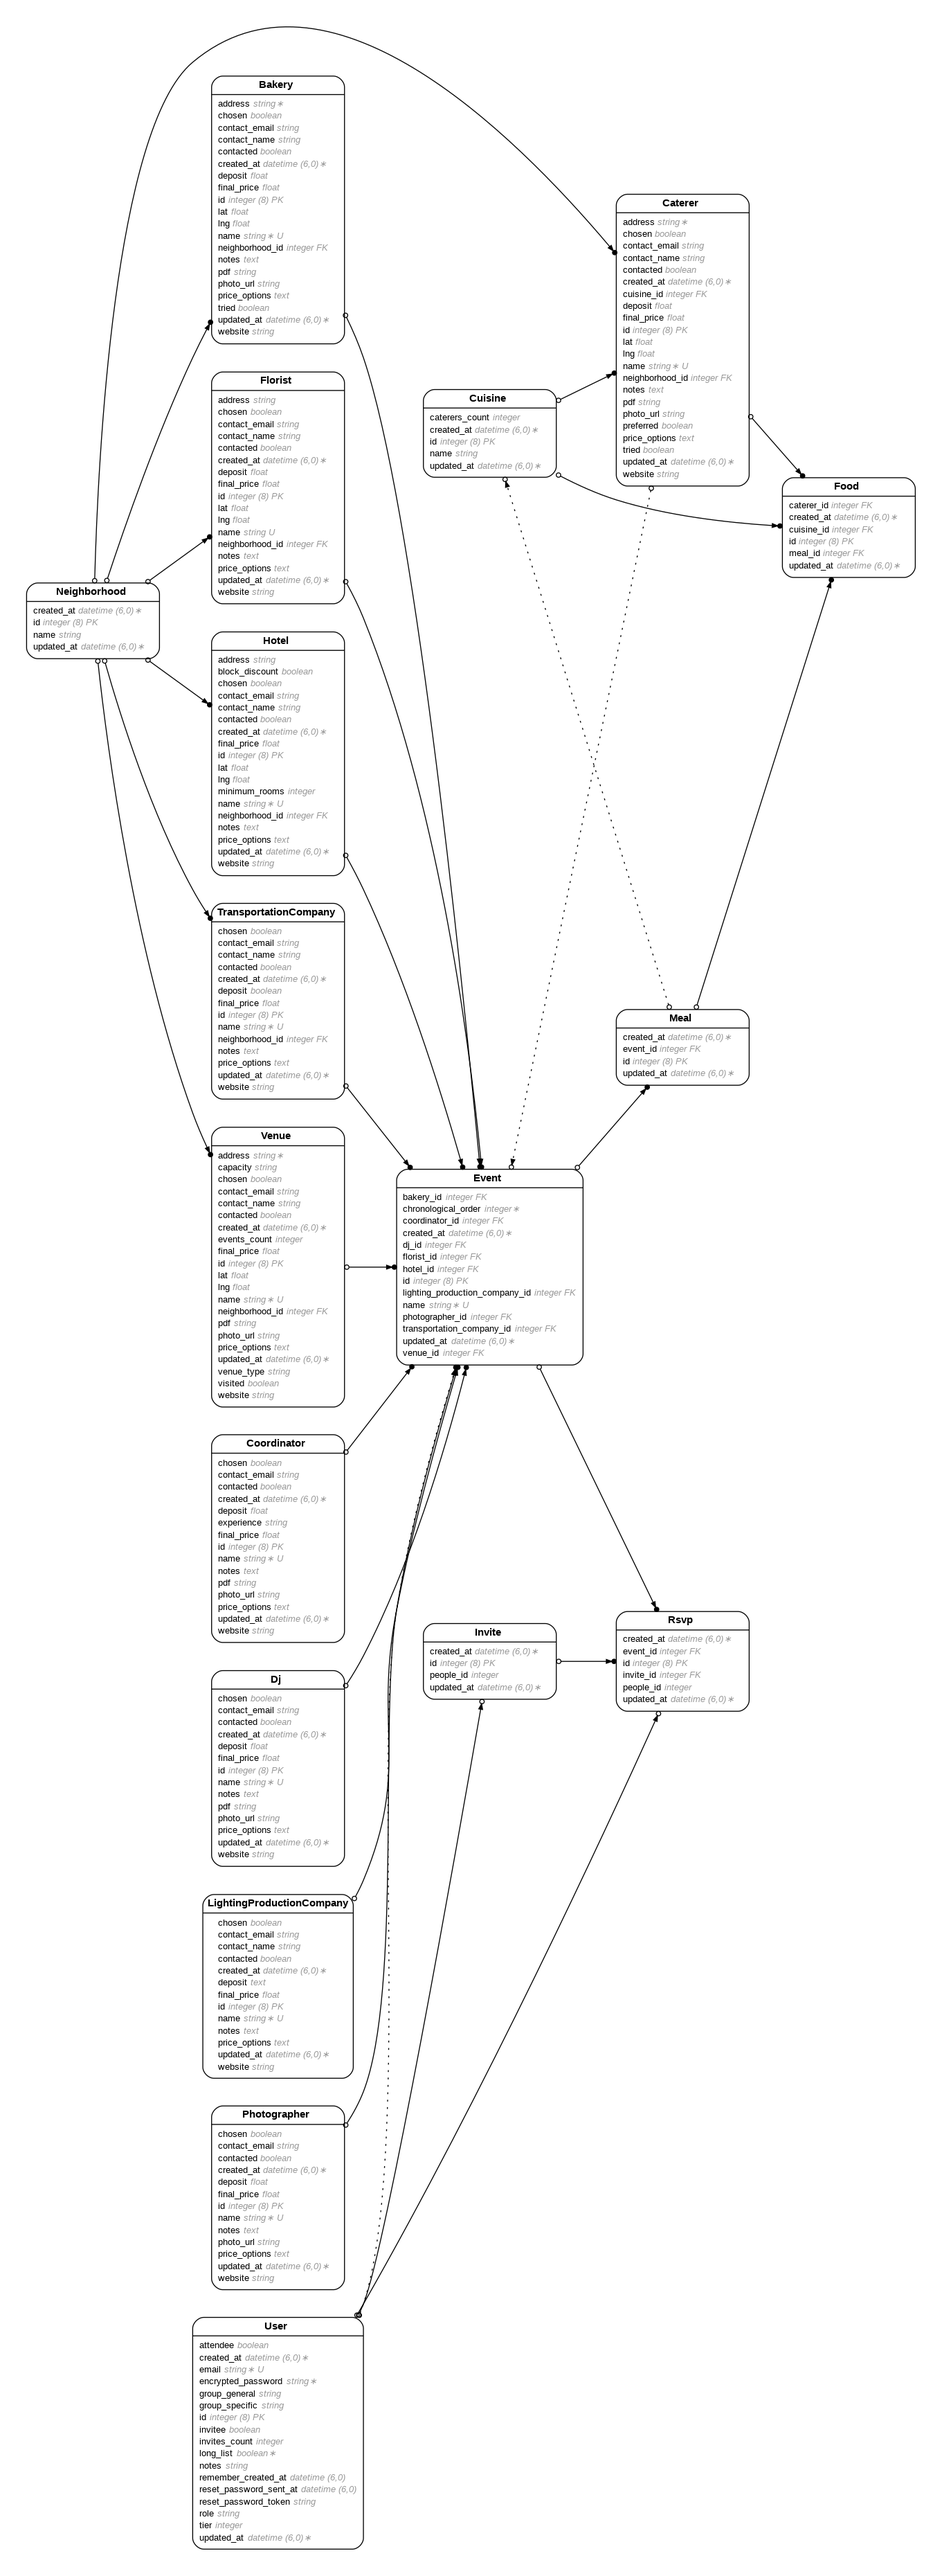
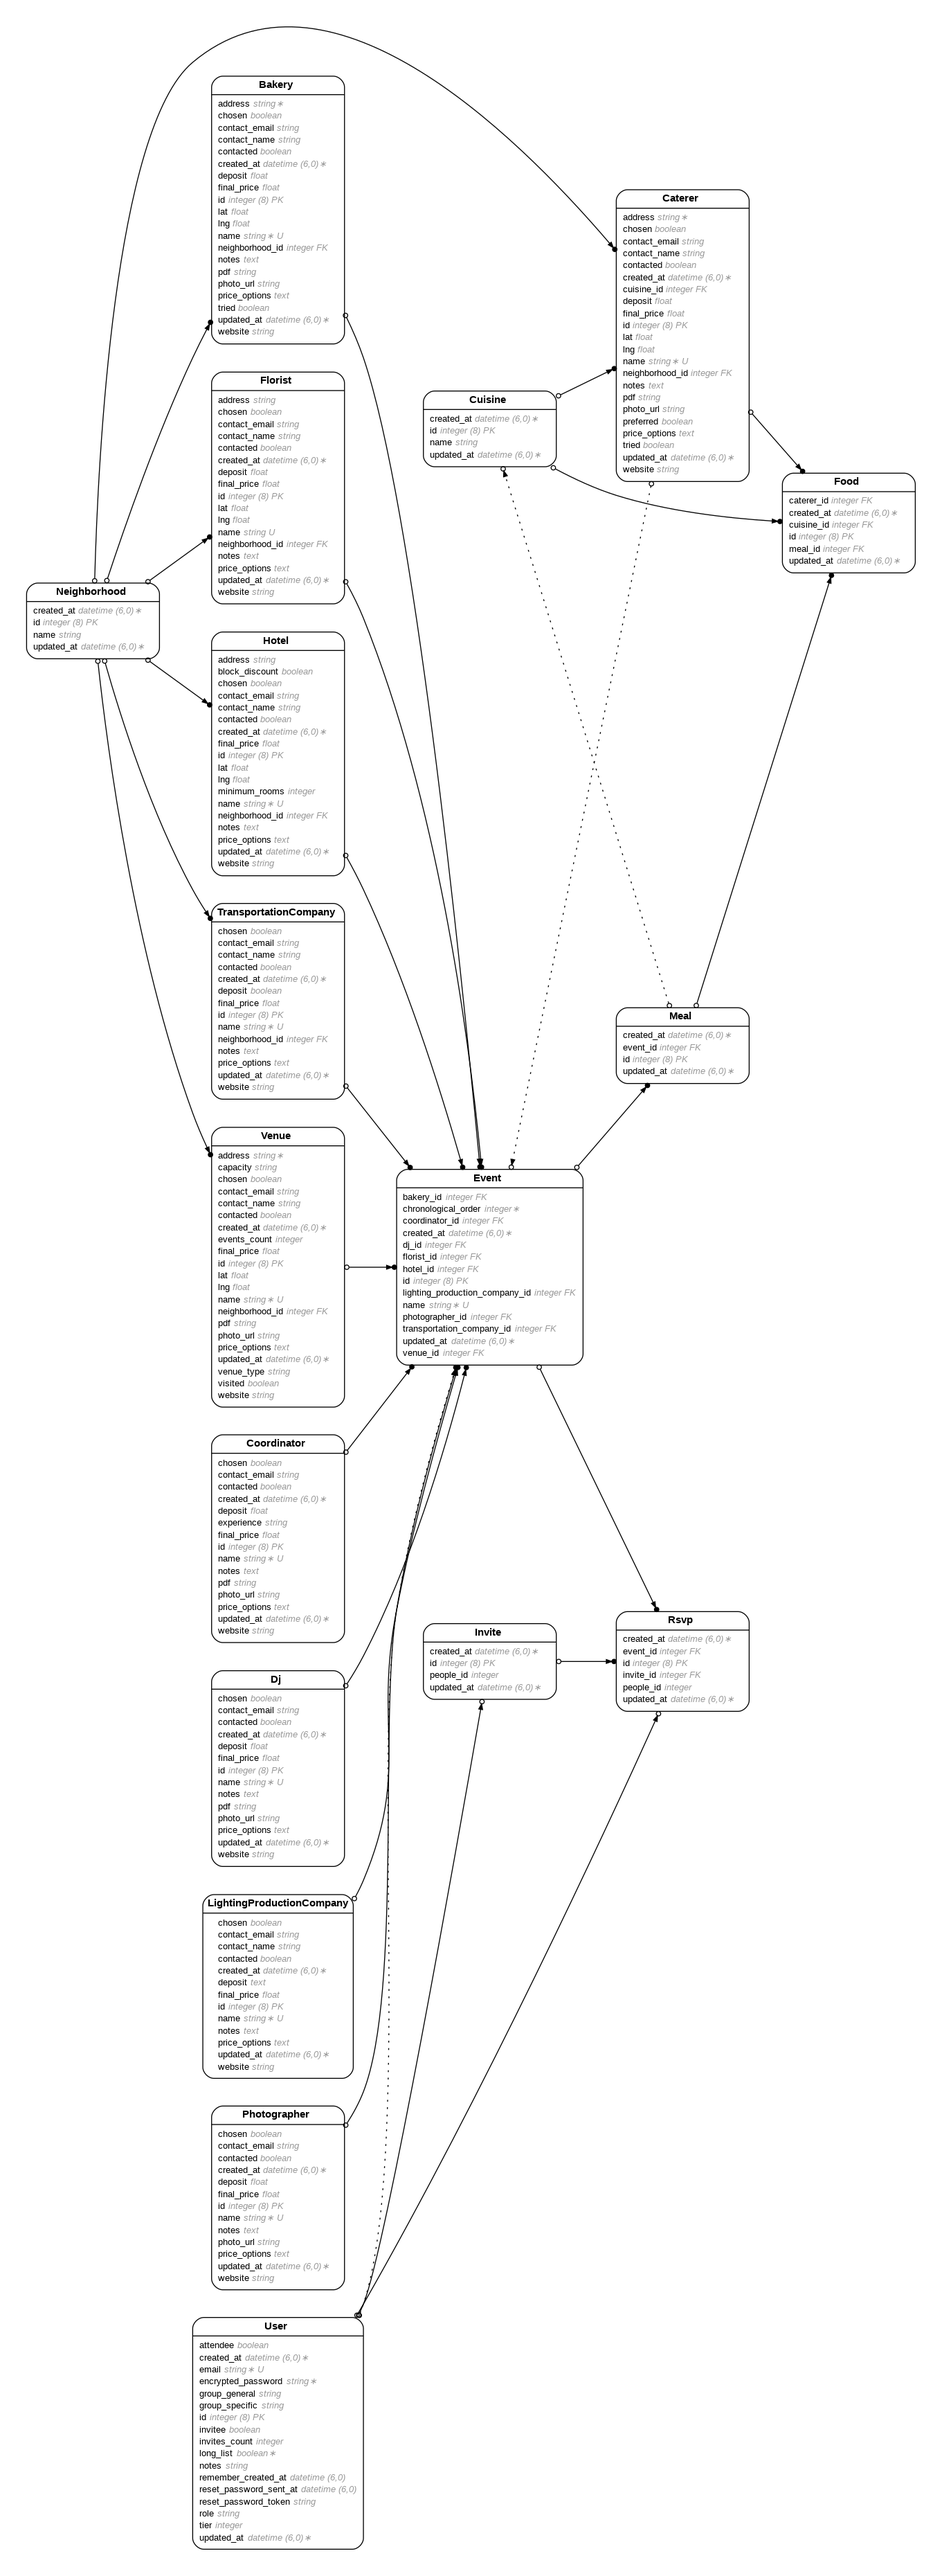
Fixing address in caterers, updating Meals index, removing caterers_count from Cuisine

diff --git a/app/controllers/caterers_controller.rb b/app/controllers/caterers_controller.rb
@@ -29,20 +29,21 @@ class CaterersController < ApplicationController
     the_caterer.address = params.fetch("query_address")
 
         #lat & lng
+        if the_bakery.address != ""
+          maps_url = "https://maps.googleapis.com/maps/api/geocode/json?address=" + the_caterer.address + "&key=" + ENV.fetch("GMAPS_KEY")
 
-        maps_url = "https://maps.googleapis.com/maps/api/geocode/json?address=" + the_caterer.address + "&key=" + ENV.fetch("GMAPS_KEY")
-
-        resp = HTTP.get(maps_url)
-        raw_response = resp.to_s
-        parsed_response = JSON.parse(raw_response)
-  
-        results = parsed_response.fetch("results")
-        first_result = results.at(0)
-        geo = first_result.fetch("geometry")
-        loc = geo.fetch("location")
-  
-        the_caterer.lat = loc.fetch("lat")
-        the_caterer.lng = loc.fetch("lng")
+          resp = HTTP.get(maps_url)
+          raw_response = resp.to_s
+          parsed_response = JSON.parse(raw_response)
+    
+          results = parsed_response.fetch("results")
+          first_result = results.at(0)
+          geo = first_result.fetch("geometry")
+          loc = geo.fetch("location")
+    
+          the_caterer.lat = loc.fetch("lat")
+          the_caterer.lng = loc.fetch("lng")
+        end
 
     the_caterer.website = params.fetch("query_website")
     the_caterer.photo_url = params.fetch("query_photo_url")
@@ -57,10 +58,9 @@ class CaterersController < ApplicationController
     the_caterer.notes = params.fetch("query_notes")
     the_caterer.deposit = params.fetch("query_deposit")
     the_caterer.final_price = params.fetch("query_final_price")
-    the_caterer.neighborhood_id = params.fetch("query_neighborhood_id")
 
     neighborhood_name = params.fetch("query_neighborhood_name")
-    the_bakery.neighborhood_id = Neighborhood.where({ :name => neighborhood_name }).at(0).id
+    the_caterer.neighborhood_id = Neighborhood.where({ :name => neighborhood_name }).at(0).id
 
     if the_caterer.valid?
       the_caterer.save

diff --git a/db/schema.rb b/db/schema.rb
@@ -10,7 +10,7 @@
 #
 # It's strongly recommended that you check this file into your version control system.
 
-ActiveRecord::Schema[7.1].define(version: 2024_12_04_205530) do
+ActiveRecord::Schema[7.1].define(version: 2024_12_04_211652) do
   # These are extensions that must be enabled in order to support this database
   enable_extension "plpgsql"
 
@@ -78,7 +78,6 @@ ActiveRecord::Schema[7.1].define(version: 2024_12_04_205530) do
   end
 
   create_table "cuisines", force: :cascade do |t|
-    t.integer "caterers_count"
     t.datetime "created_at", null: false
     t.datetime "updated_at", null: false
     t.string "name"

diff --git a/app/models/cuisine.rb b/app/models/cuisine.rb
@@ -2,11 +2,10 @@
 #
 # Table name: cuisines
 #
-#  id             :bigint           not null, primary key
-#  caterers_count :integer
-#  name           :string
-#  created_at     :datetime         not null
-#  updated_at     :datetime         not null
+#  id         :bigint           not null, primary key
+#  name       :string
+#  created_at :datetime         not null
+#  updated_at :datetime         not null
 #
 class Cuisine < ApplicationRecord
   has_many  :caterers, class_name: "Caterer", foreign_key: "cuisine_id", dependent: :nullify

diff --git a/app/controllers/meals_controller.rb b/app/controllers/meals_controller.rb
@@ -4,6 +4,8 @@ class MealsController < ApplicationController
 
     @list_of_meals = matching_meals.order({ :created_at => :desc })
 
+    @list_of_caterers = Caterer.all.order({ :name => :desc })
+
     render({ :template => "meals/index" })
   end
 

diff --git a/db/migrate/20241204211652_remove_caterers_count_from_cuisine.rb b/db/migrate/20241204211652_remove_caterers_count_from_cuisine.rb
@@ -1,0 +1,5 @@
+class RemoveCaterersCountFromCuisine < ActiveRecord::Migration[7.1]
+  def change
+    remove_column :cuisines, :caterers_count, :integer
+  end
+end
